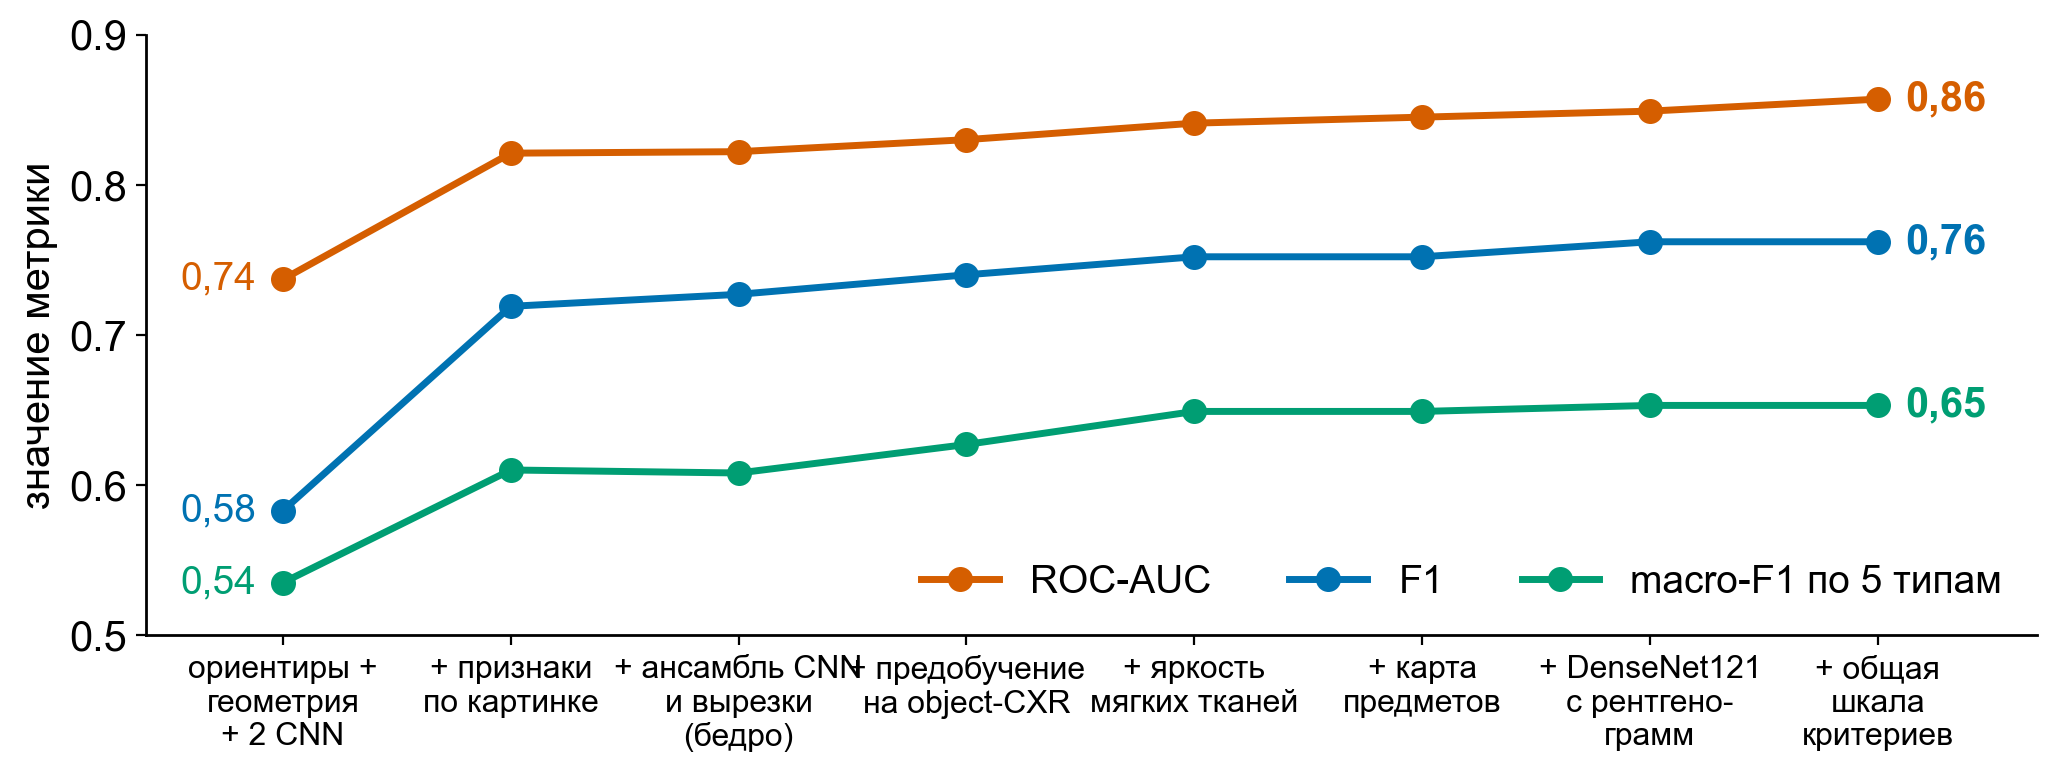
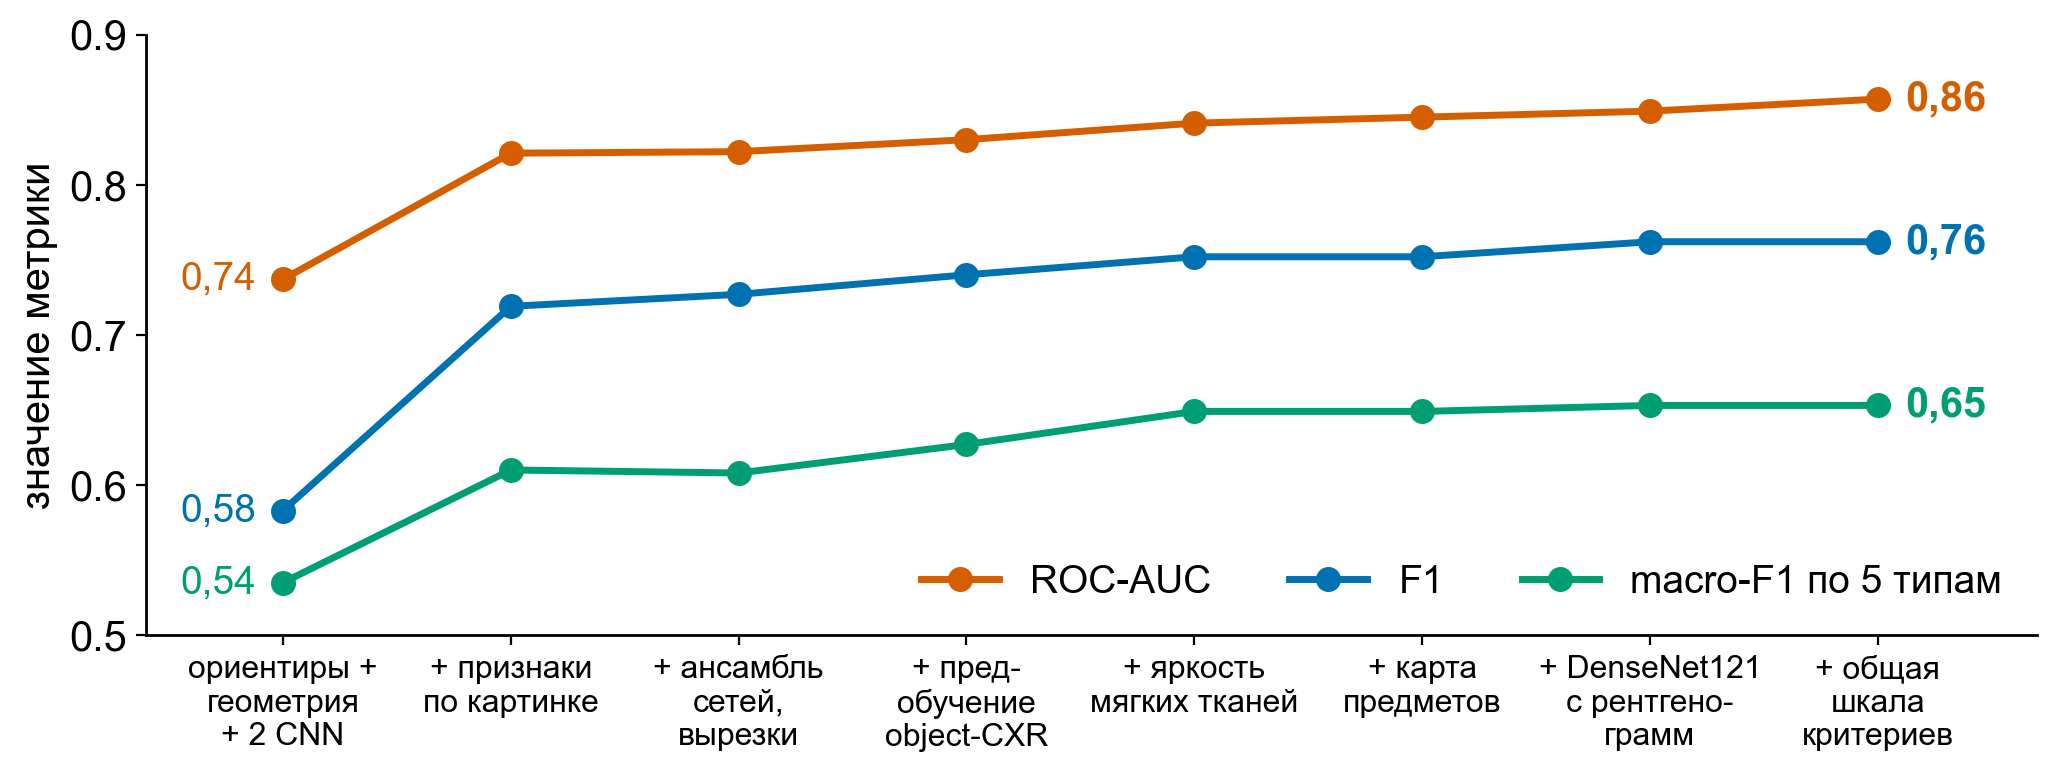
Рисунок «Сравнение вариантов модели»: подписи шагов

Changed region(s): [[0.3111, 0.8394, 0.5289, 0.9948]]

diff --git a/presentation/make_figures.py b/presentation/make_figures.py
@@ -36,7 +36,7 @@ save("data.png")
 
 # 3. сравнение вариантов модели
 fig, ax = plt.subplots(figsize=(12.2, 3.9))
-st = ["ориентиры +\nгеометрия\n+ 2 CNN", "+ признаки\nпо картинке", "+ ансамбль CNN\nи вырезки\n(бедро)", "+ предобучение\nна object-CXR", "+ яркость\nмягких тканей", "+ карта\nпредметов", "+ DenseNet121\nс рентгено-\nграмм", "+ общая\nшкала\nкритериев"]
+st = ["ориентиры +\nгеометрия\n+ 2 CNN", "+ признаки\nпо картинке", "+ ансамбль\nсетей,\nвырезки", "+ пред-\nобучение\nobject-CXR", "+ яркость\nмягких тканей", "+ карта\nпредметов", "+ DenseNet121\nс рентгено-\nграмм", "+ общая\nшкала\nкритериев"]
 auc = [0.737, 0.821, 0.822, 0.830, 0.841, 0.845, 0.849, 0.857]; f1 = [0.583, 0.719, 0.727, 0.740, 0.752, 0.752, 0.762, 0.762]; mf = [0.535, 0.610, 0.608, 0.627, 0.649, 0.649, 0.653, 0.653]
 x = np.arange(len(st))
 for v, c, n in ((auc, OURS, "ROC-AUC"), (f1, LIT, "F1"), (mf, GREEN, "macro-F1 по 5 типам")):
